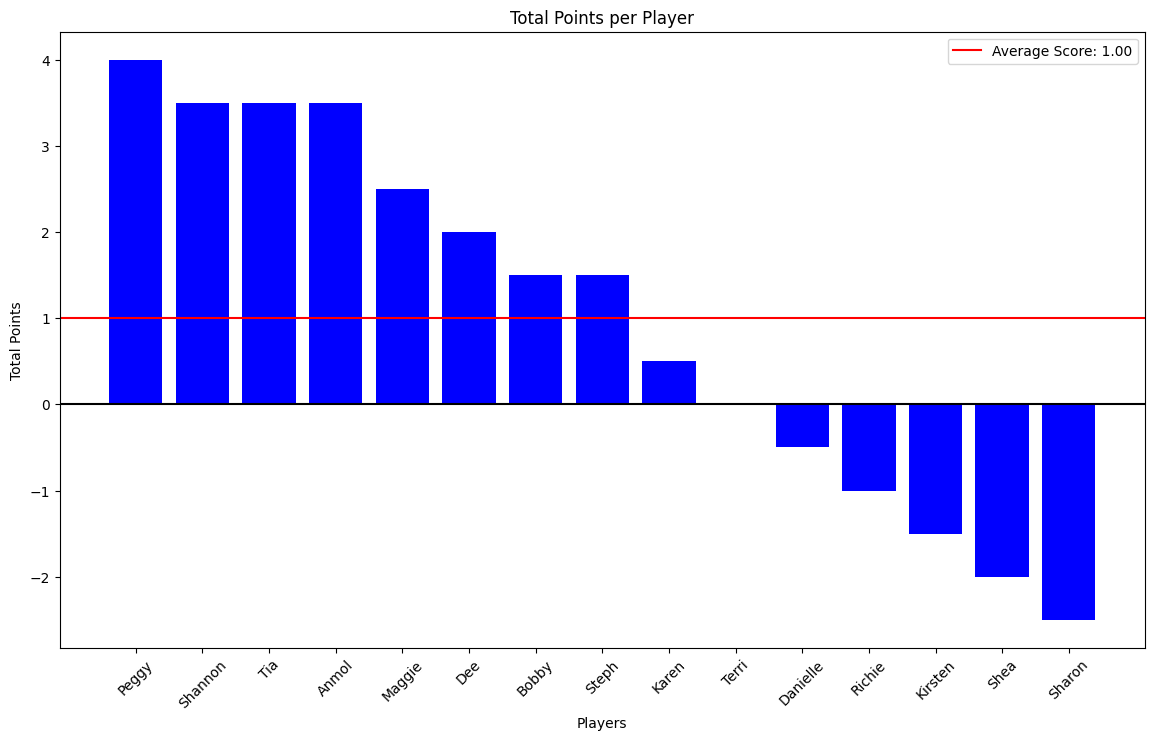
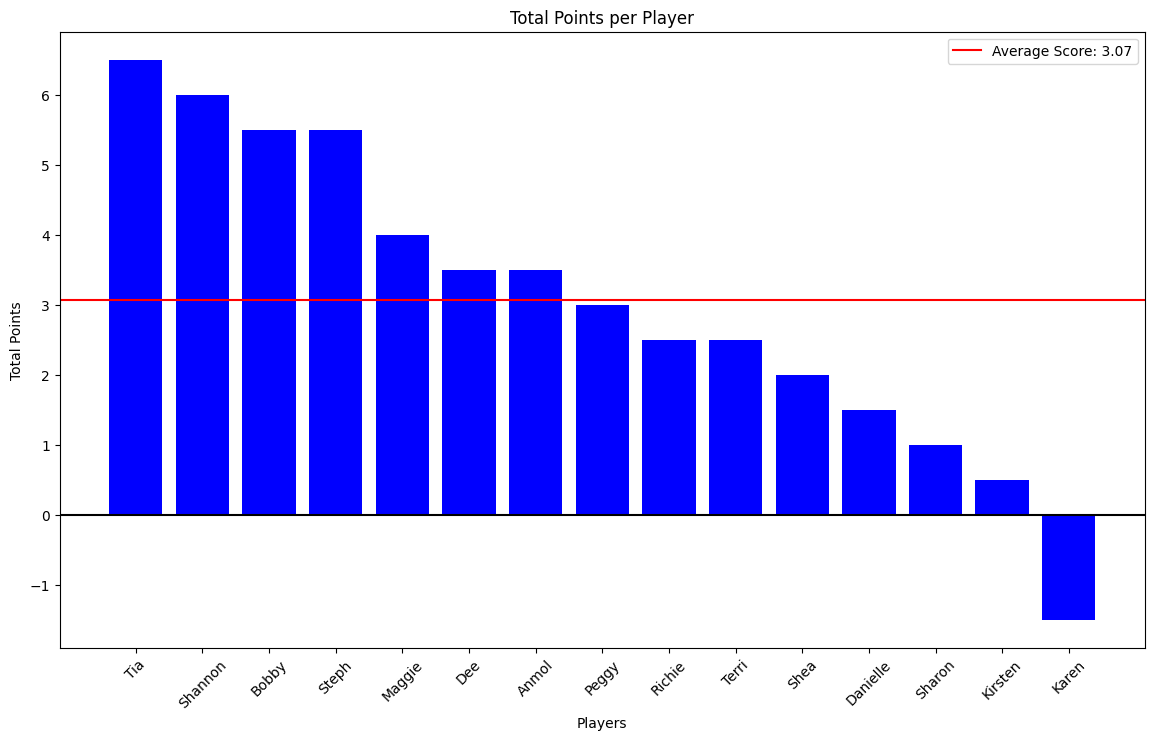
updated error w/ other comp winners

diff --git a/website.py b/website.py
@@ -64,12 +64,27 @@ def read_winners_from_csv(filename):
     other_comp_winners_raw = [x for x in data[3][1:] if x != '']
     evictions = [x for x in data[4][1:] if x != ''] 
     
-    # parse didnt_lose dictionary
-    other_comp_winners = {int(other_comp_winners_raw[i]): (other_comp_winners_raw[i+1]) for i in range(0, len(other_comp_winners_raw), 2) if other_comp_winners_raw[i].isdigit()}
+    # Parse other_comp_winners as a dictionary of lists
+    other_comp_winners = {}
+    for i in range(0, len(other_comp_winners_raw), 2):
+        week = int(other_comp_winners_raw[i])
+        winners = other_comp_winners_raw[i + 1].split(',')  # Split multiple winners
+        if week in other_comp_winners:
+            other_comp_winners[week].extend(winners)
+        else:
+            other_comp_winners[week] = winners
+    print(other_comp_winners)
     
-    # parse the buy_back dictionary
-    buy_back_raw = [x for x in data[5][1:] if x != ''] 
-    buy_back = {int(buy_back_raw[i]): (buy_back_raw[i+1]) for i in range(0, len(buy_back_raw), 2) if buy_back_raw[i].isdigit()}
+    # Parse buy_back as a dictionary of lists
+    buy_back_raw = [x for x in data[5][1:] if x != '']
+    buy_back = {}
+    for i in range(0, len(buy_back_raw), 2):
+        week = int(buy_back_raw[i])
+        winners = buy_back_raw[i + 1].split(',')  # Split multiple winners
+        if week in buy_back:
+            buy_back[week].extend(winners)
+        else:
+            buy_back[week] = winners
 
     americas_favorite = data[6][1] 
     
@@ -120,13 +135,16 @@ def calc_points(hoh_winners, veto_winners, off_block, other_comp_winners, evicti
                     points = 7.5 - (ranking * 0.75)
                     weekly_scores[player][index_of_winner] += points
                     log_points(player, points, f"{picks[player][ranking]} got off the block", index_of_winner)
-
-        for week, winner in other_comp_winners.items():
-            for ranking in range(len(picks[player])):
-                if picks[player][ranking] == winner:
-                    points = 5 - (ranking * 0.5)
-                    weekly_scores[player][week] += points
-                    log_points(player, points, f"{picks[player][ranking]} won another competition", week)
+                    
+        for week, winners in other_comp_winners.items():
+            if not isinstance(winners, list):
+                winners = [winners]
+            for winner in winners:
+                for ranking in range(len(picks[player])):
+                    if picks[player][ranking] == winner:
+                        points = 5 - (ranking * 0.5)
+                        weekly_scores[player][week] += points
+                        log_points(player, points, f"{picks[player][ranking]} won another competition", week)
 
         for week, winner in buy_back.items():
             for ranking in range(len(picks[player])):

diff --git a/calc_points_send_email.py b/calc_points_send_email.py
@@ -276,18 +276,20 @@ def send_email_with_attachments(subject, body, to, email, password, files):
 # execute the code
 if __name__ == '__main__':
     # get picks from csv file
-    csv_picks = read_picks_from_csv('picks.csv')
+    csv_picks = read_picks_from_csv('/Users/richie/Documents/git_hub/big_brother/big_brother/data/picks.csv')
     # get winners from csv file
-    hoh_winners_csv, veto_winners_csv, off_block_csv, other_comp_winners_csv, evictions_csv, buy_back_csv, americas_favorite_csv  = read_winners_from_csv('winners.csv')
+    hoh_winners_csv, veto_winners_csv, off_block_csv, other_comp_winners_csv, evictions_csv, buy_back_csv, americas_favorite_csv  = read_winners_from_csv('/Users/richie/Documents/git_hub/big_brother/big_brother/data/winners.csv')
     # get scores from calc_points function
     weekly_scores, total_scores = calc_points(hoh_winners_csv, veto_winners_csv, off_block_csv, other_comp_winners_csv, evictions_csv,americas_favorite_csv, buy_back_csv,csv_picks)
     # write the scores to the csv file
-    write_scores_to_csv('points.csv', total_scores, weekly_scores)
+    write_scores_to_csv('/Users/richie/Documents/git_hub/big_brother/big_brother/data/new_points.csv', total_scores, weekly_scores)
     print('Points have been calculated.')
     # plot the total scores as well as the cumulative weekly scores
     plot_total_scores(total_scores)
     plot_scores_over_time(weekly_scores)
     print('Points have been graphed.')
+
+    '''
     # email the update to everyone in the email list
     files = ['cumulative_scores.png', 'total_scores.png', 'picks.csv', 'points.csv', 'winners.csv']
     subject = "Big Brother 25 Draft"
@@ -297,6 +299,7 @@ if __name__ == '__main__':
     password = 'redacted'
     # send the email
     #send_email_with_attachments(subject, body, to, email, password, files)
+'''
 
 '''
 Useful copy and pastes:ss
